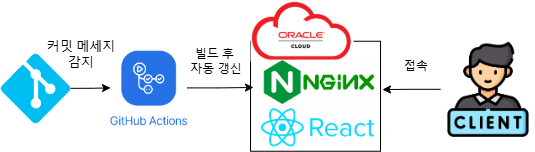
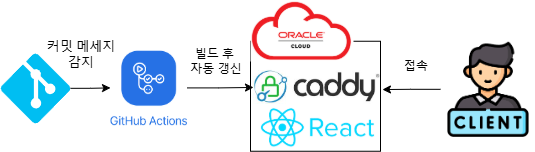
[001] 다이어그램 교체 및 소개 수정

Changed region(s): [[0.4486, 0.3947, 0.7178, 0.6842]]

diff --git a/src/pages/Introduction/index.js b/src/pages/Introduction/index.js
@@ -17,21 +17,22 @@ const Introduction = () => {
           <div className="p-8">
             <h2 className="text-3xl font-bold text-gray-900 mb-6">소개</h2>
             <div className="space-y-4 text-lg text-gray-700 leading-relaxed">
-              <p className="font-medium">
-                안녕하세요. 클라우드 엔지니어를 목표로 하는 문성종입니다.
-              </p>
-              <div className="space-y-2">
-                <p>
-                  Python과 JavaScript를 활용하여 프로젝트의 기획부터 배포까지 모든 과정을 수행할 수 있으며,
-                  AWS와 GCP를 활용한 클라우드 환경 구축 경험이 있습니다.
-                </p>
-                <p>
-                  클라우드 교육 과정의 프로젝트에서는 팀장을 맡아 팀원들과의 원활한 소통과 협업을 통해 
-                  최우수상을 수상하였습니다.
-                </p>
-                <p>
-                  탁월한 문제 해결 능력과 협업 경험을 바탕으로 팀과 함께 성장하며 가치 있는 서비스를 만들어 나가고자 합니다.
-                </p>
+             <p className="font-medium">
+  안녕하세요! 풀스택 개발자이자 빅데이터 엔지니어를 꿈꾸며 성장하고 있는 문성종입니다.
+</p>
+<div className="space-y-2">
+  <p>
+    최신 웹·서버 기술들을 활용해서 프론트엔드부터 백엔드, 데이터 파이프라인까지 직접 만들어보며 경험을 쌓아왔습니다.
+  </p>
+  <p>
+    자동화된 CI/CD 파이프라인을 구축하고 운영하면서 개발과 배포 과정을 더 효율적으로 만드는 일에 재미를 느꼈습니다.
+  </p>
+  <p>
+    데이터 수집부터 가공, 분석, 시각화까지 자동화하는 빅데이터 프로젝트들을 통해 대용량 데이터를 다루는 실력을 기르고 있습니다.
+  </p>
+  <p>
+    여러 프로젝트에서 능동적으로 문제를 해결해나가면서, 팀원들과 함께 배우고 성장하는 개발 문화를 만들어가고 싶습니다.
+  </p>
               </div>
             </div>
           </div>
